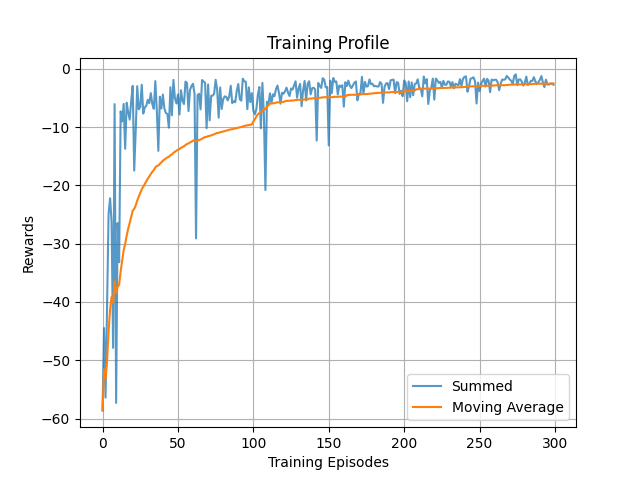
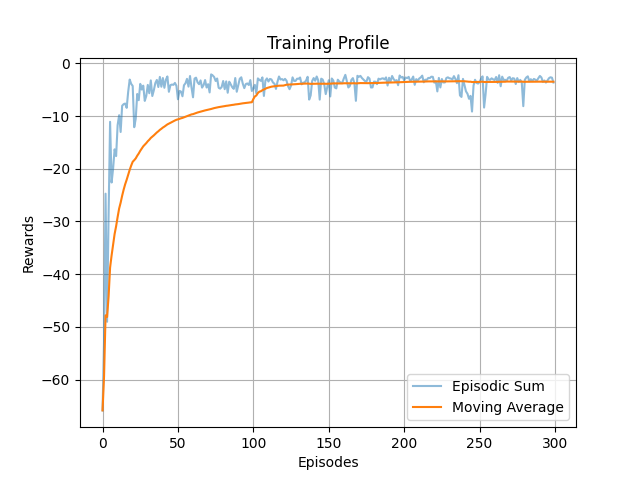
Check Buikd Fix

diff --git a/training_ground/check_PyTorch/profiler.py b/training_ground/check_PyTorch/profiler.py
@@ -13,20 +13,19 @@ distance = np.load(data_path + 'distance_history.npy', allow_pickle=False)
 
 # Generate graphs
 plt.figure(1)
-plt.plot(score, alpha=0.75, label='Summed')
+plt.plot(score, alpha=0.5, label='Episodic Sum')
 plt.plot(avg, label='Moving Average')
 plt.grid(True)
-plt.xlabel('Training Episodes')
+plt.xlabel('Episodes')
 plt.ylabel('Rewards')
 plt.legend(loc='best')
 plt.title('Training Profile')
 plt.savefig(data_path + 'Training_Profile.png')
 
 plt.figure(2)
-plt.plot(distance, label='Terminal State Error')
+plt.plot(distance)
 plt.grid(True)
 plt.xlabel('Episodes')
-plt.ylabel('Euclidean Distance Error')
-plt.legend(loc='best')
-plt.title('Distance-Error Profile')
+plt.ylabel("Distance Error 'mm'")
+plt.title('Terminal State Error Profile')
 plt.savefig(data_path + 'Distance_Profile.png')

diff --git a/training_ground/check_PyTorch/train.py b/training_ground/check_PyTorch/train.py
@@ -1,5 +1,5 @@
 from rai_gym.env import RAI_Env
-from rl_agents.TD3 import Agent
+from rl_agents.DDPG import Agent
 import os
 import numpy as np
 import copy
@@ -47,7 +47,7 @@ if __name__ == '__main__':
 
             OBS = copy.deepcopy(next_OBS)
             score += reward
-            distance = -reward
+            distance = -reward * 1e3
 
             # Optimize the agent
             agent.optimize()
